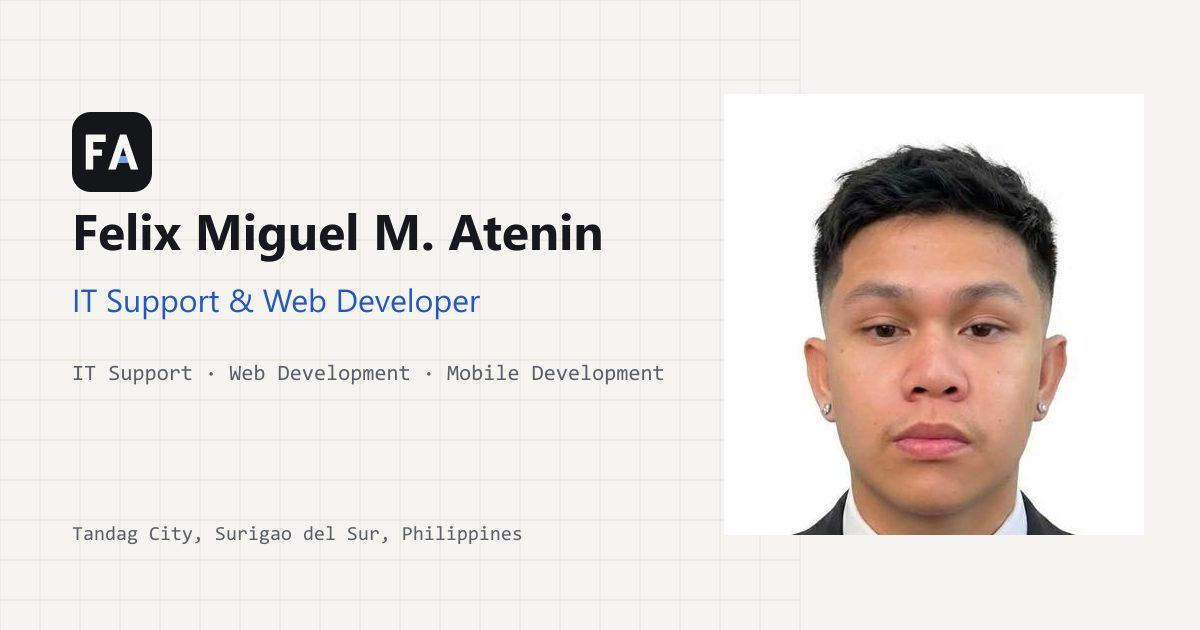
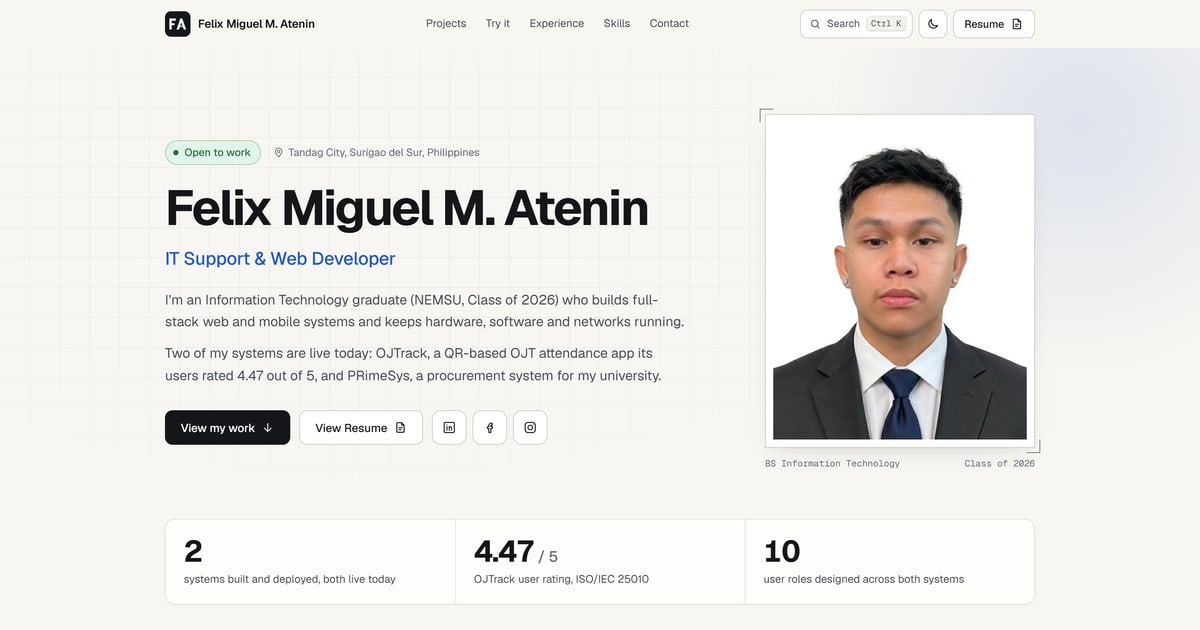
Use a capture of the hero as the link-preview image

diff --git a/README.md b/README.md
@@ -33,7 +33,8 @@ All text lives in the content files; components only render it.
 - **Certificates:** put the original scan or photo in `source-images/`, add a job for it in `scripts/optimize-images.mjs` with `redact` boxes over every signature (and any ID numbers), run `npm run images`, then add an entry (image, `alt`, title, issuer, date) to `certificates` in `profile.js`. They appear under Education with a zoomable view; set `certificate: '<id>'` on an experience or the education entry to add a "View certificate" link there. Publish images only, never PDFs, and keep personal records such as the full Transcript of Records (TOR) off the site. The section says the originals and the TOR are available on request.
 - **Résumé:** the résumé buttons open a viewer on the page (`src/components/resume/ResumeViewer.jsx`) that "prints" the résumé onto a sheet, with section tabs, links to the case studies and certificates, and **Open PDF** / **Download** buttons. Link straight to it with `/#resume`. Its text is in `src/content/resume.js` and should match the PDF in `public/resume/Felix-Miguel-Atenin-Resume.pdf`, so update both together. The web version leaves out the phone number and street address on purpose (they're only in the PDF).
 - **Photo and screenshots:** put originals in `source-images/` and run `npm run images` to crop and compress them into `src/assets/images/` (each job in `scripts/optimize-images.mjs` lists its source file and sizes). The website screenshots are 1440px-wide captures of the live sites at 2x pixel density; phone screenshots come from a real device. After replacing an image, update its `width`/`height` in the content file. (`source-images/` is git-ignored because raw screenshots can include browser bookmarks and status bars.)
-- **Logo and icons:** the FA monogram is drawn from shapes in `src/lib/monogram.js`. That one file feeds the header logo (which turns over to the round avatar on hover), the favicons, the phone home-screen icon and the link-preview image; after changing it, run `npm run images`. The round avatar is cropped from `portrait.jpg` by the same script.
+- **Logo and icons:** the FA monogram is drawn from shapes in `src/lib/monogram.js`. That one file feeds the header logo (which turns over to the round avatar on hover), the favicons and the phone home-screen icon; after changing it, run `npm run images`. The round avatar is cropped from `portrait.jpg` by the same script.
+- **Link-preview image** (the picture shown when the link is shared on Messenger, Facebook or LinkedIn): `public/og-image.jpg` is a capture of the hero, from the header down to the three numbers, in the light theme. To update it after changing the hero, screenshot the top 1600 × 840 of the page at 2× pixel density into `source-images/og-hero.png` and run `npm run images`. Sites keep old previews for a while: refresh them in Facebook's Sharing Debugger and LinkedIn's Post Inspector.
 - **Hero photo card:** the portrait (`portrait.jpg`) is on the front and the graduation photo (`portrait-graduation.jpg`, 4:5) on the back; visitors click or tap to flip it. The card turns over in the direction of the click: any of the four sides or four corners (corners give a slanted, diagonal flip), always landing upright. The card itself is `src/components/sections/HeroPortrait.jsx`.
 - **Light and dark theme:** the site follows the visitor's system setting; the header button switches it and the choice is remembered on that device. Colours are tokens at the top of `src/styles/base.css`.
 - **Live demos ("Try it"):** working replicas of each system's core flow, with sample data and no network calls: `src/components/demos/OjtrackDemo.jsx` (OTP → one-time QR → supervisor scan) and `PrimesysDemo.jsx` (a purchase request moving through the seven statuses).
